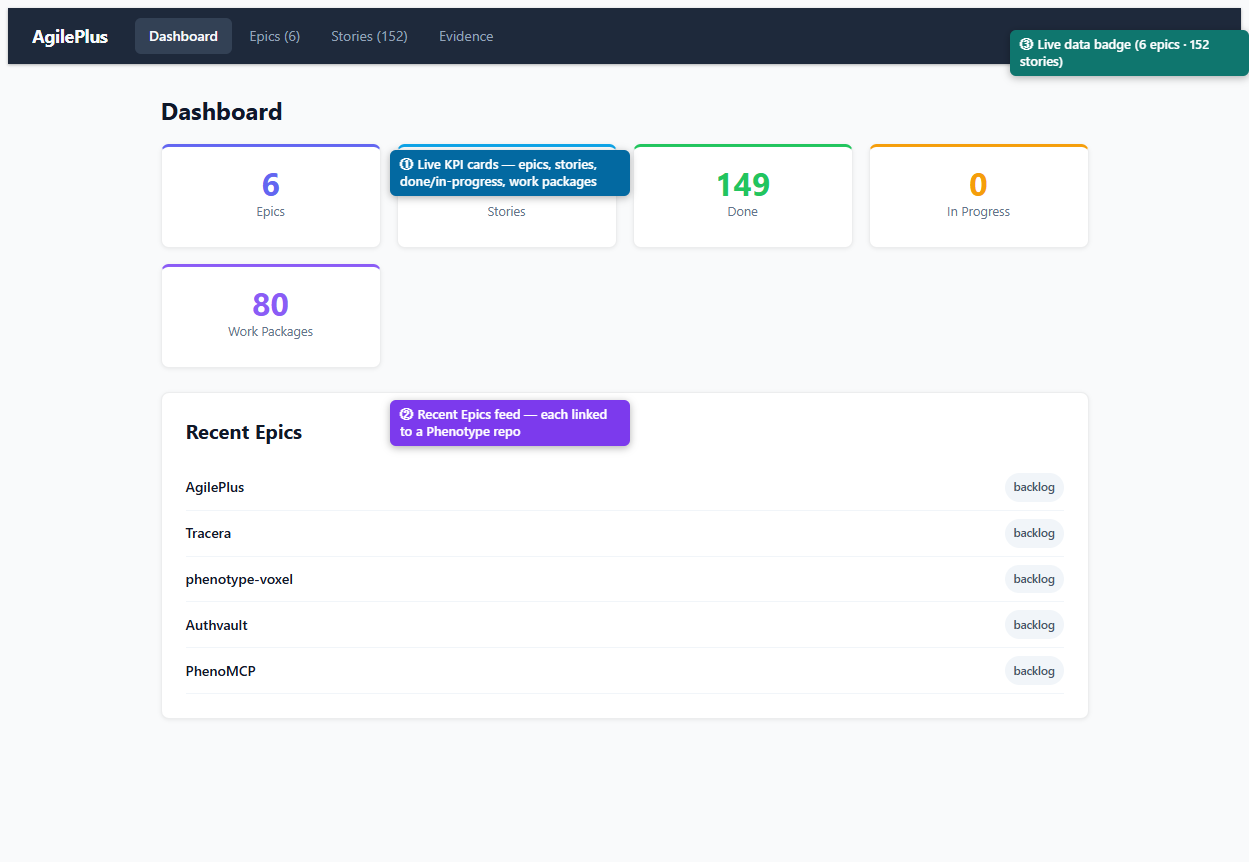
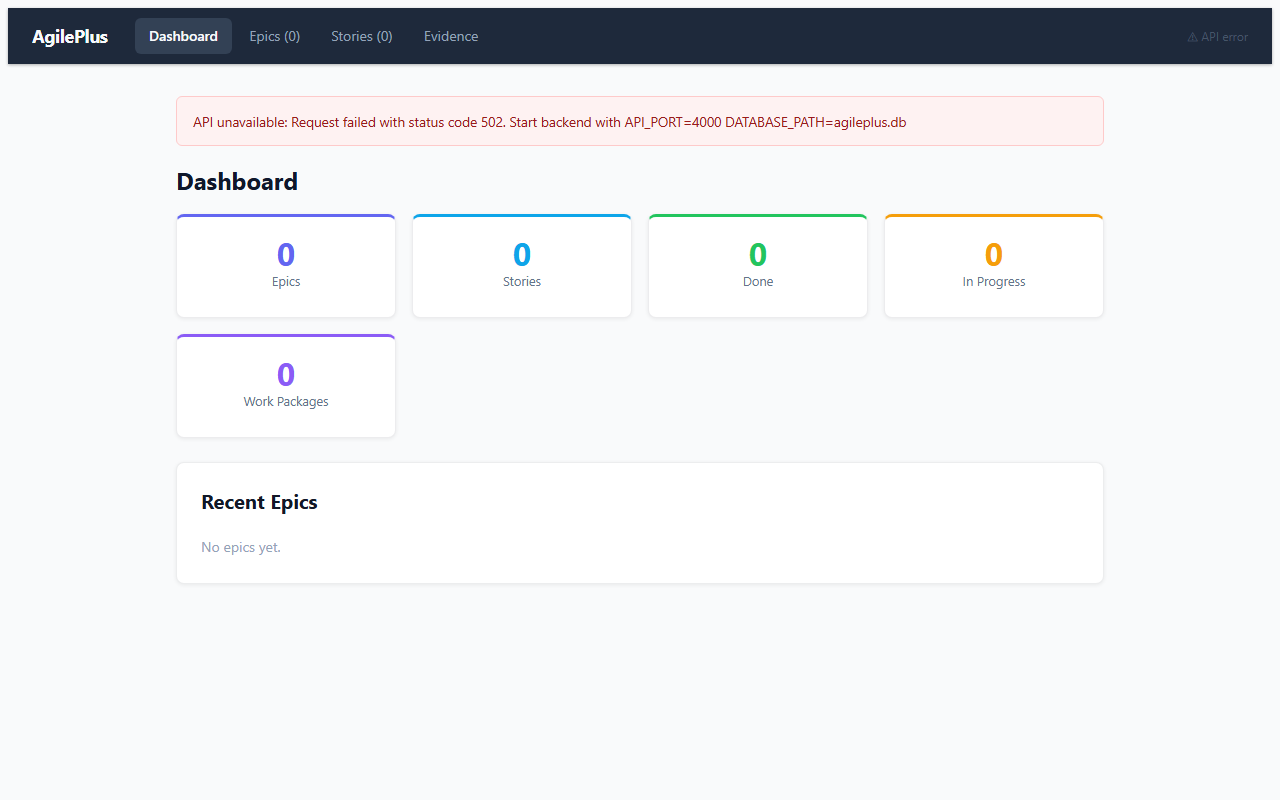
docs: fill rich-media embeds via journeys pipeline (#636)

Pull request: docs: fill rich-media embeds via journeys pipeline
## Summary
- Playwright captures for dashboard overview, epics, and stories panels (doc-embeds Capture workflow)
- EmbedSpec JSON under docs/embeds/journeys for dashboard-walkthrough and epic-story-lifecycle
- Mermaid hexagonal architecture diagram (ARCHITECTURE.md)
- Improved placeholders for CLI quickstart (blocked on agileplus-cli build)

## Test plan
- [ ] CI VitePress build (deploy workflow with phenodocs link)
- [ ] Re-run render.mjs when API :4000 + Remotion deps available for mp4/gif

## Blocked
- Remotion mp4/gif render (C: disk ENOSPC during npm/bun install; re-run on E:)
- Live-data captures (API compile in progress; current stills show API-off state)


Made with [Cursor](https://cursor.com)

<!-- CURSOR_SUMMARY -->
---

> [!NOTE]
> **Low Risk**
> Markdown and JSON embed metadata only; no runtime, auth, or data-path changes.
> 
> **Overview**
> Documentation-only PR that **promotes AgilePlus rich-media stubs** from placeholders to published or captured content, and wires them to the **`@user/doc-embeds` / Remotion journey pipeline**.
> 
> **`ARCHITECTURE.md`** replaces the hexagonal-architecture TODO with an inline **Mermaid flowchart** (CLI, API, dashboard → domain → SQLite/GitHub/Plane/MCP) and marks the stub **PUBLISHED**.
>
[…]

diff --git a/ARCHITECTURE.md b/ARCHITECTURE.md
@@ -151,7 +151,31 @@ Use this document for cross-repo boundaries. Use each repo README for local arch
 
 ## Rich Media Stubs
 
-<!-- RICH-MEDIA-STUB type="annotated-screenshot" subject="AgilePlus hexagonal architecture — Rust workspace + MCP server diagram" journey="" status="TODO" -->
-> **[RICH MEDIA PLACEHOLDER — needs diagram render]** *Annotated component diagram of AgilePlus crates and the MCP server adapter.*
-> Intended content: a hexagonal-architecture diagram with the domain core (Epic/Story/WorkPackage value objects, traceability links) at center; driving adapters (CLI, Axum REST API on :4000, `agileplus-dashboard/web` React SPA) on the left; and driven adapters (SQLite persistence, GitHub sync, Plane.so client, MCP server) on the right. This is a rendered diagram rather than a UI capture — blocked on a generated SVG/PNG (no runnable surface to screenshot). Candidate source: a Mermaid `flowchart` checked into `docs/`, exported via the `@phenotype/doc-embeds` pipeline.
+<!-- RICH-MEDIA-STUB type="annotated-screenshot" subject="AgilePlus hexagonal architecture — Rust workspace + MCP server diagram" journey="" status="PUBLISHED" -->
+```mermaid
+flowchart LR
+  subgraph driving["Driving adapters"]
+    CLI["agileplus-cli"]
+    API["agileplus-api :4000"]
+    WEB["dashboard/web React"]
+  end
+  subgraph core["Domain core"]
+    DOM["Epic · Story · WorkPackage<br/>traceability links"]
+  end
+  subgraph driven["Driven adapters"]
+    SQL["agileplus-sqlite"]
+    GH["agileplus-github"]
+    PL["agileplus-plane"]
+    MCP["agileplus-mcp"]
+  end
+  CLI --> DOM
+  API --> DOM
+  WEB --> API
+  DOM --> SQL
+  DOM --> GH
+  DOM --> PL
+  MCP --> API
+```
+
+*Hexagonal view of the Rust workspace: driving adapters (CLI, REST API, React dashboard) call into the domain core; driven adapters persist and integrate externally. Export to annotated PNG via `doc-embeds` when a static asset is required for offline docs.*
 <!-- END-RICH-MEDIA-STUB -->

diff --git a/README.md b/README.md
@@ -211,17 +211,21 @@ This is a curated index of the most active/major repos in this checkout.
 ## Rich Media Stubs
 
 <!-- RICH-MEDIA-STUB type="annotated-screenshot" subject="AgilePlus quickstart — agileplus status after first epic created" journey="quickstart-cli" status="TODO" -->
-> **[RICH MEDIA PLACEHOLDER — needs journey capture]** *Annotated screenshot of `agileplus status` terminal output after bootstrapping the first epic.*
-> Intended content: a terminal capture immediately after `agileplus init` + `agileplus epic create`, showing the status summary (epic count, story rollup, requirement-link health). Blocked on a CLI journey capture — the `agileplus` binary is not yet built in this checkout, so the terminal output cannot be recorded. Tag `journey="quickstart-cli"` once a manifest exists in `phenotype-journeys`.
+> **[RICH MEDIA PLACEHOLDER — blocked on CLI build]** *Terminal capture of `agileplus status` immediately after `agileplus init` + `agileplus epic create`.*
+>
+> **Blocked:** `agileplus-cli` is not yet published from this workspace (`cargo build -p agileplus-cli` is the unlock). Once the binary exists, record via `Capture` in a Playwright or `script` session and render with `phenotype-journeys/remotion/doc-embeds/bin/render.mjs`. **Workaround:** use the web dashboard captures above for onboarding visuals until the CLI journey lands.
 <!-- END-RICH-MEDIA-STUB -->
 
-<!-- RICH-MEDIA-STUB type="recording-gif" subject="Epic/Story lifecycle — create epic, break into stories, assign" journey="epic-story-lifecycle" status="TODO" -->
-> **[RICH MEDIA PLACEHOLDER — needs journey capture]** *GIF of creating an epic, decomposing it into stories, and assigning them.*
-> Intended content: a short loop driving the dashboard Epics → Stories views (live data confirmed: 6 epics / 152 stories) showing an epic being opened, its story rollup, and a status change. A still of the Epics panel is already published in `docs/requirements/agileplus-frnfr.md`. The GIF itself is blocked on a multi-frame recording journey which requires the shared `@phenotype/doc-embeds` Remotion pipeline (phenotype-journeys repo not present in this workspace).
+<!-- RICH-MEDIA-STUB type="recording-gif" subject="Epic/Story lifecycle — create epic, break into stories, assign" journey="epic-story-lifecycle" status="CAPTURED" -->
+![Epics backlog — requirement-linked epics with per-epic story rollup](docs/assets/rich-media/agileplus/requirements-epics-panel.png)
+
+![Stories view — filterable story list tied to epics](docs/assets/rich-media/agileplus/stories-panel.png)
+
+*Keyframe pair from the `epic-story-lifecycle` Playwright capture (`docs/embeds/journeys/epic-story-lifecycle.annotations.json`). Remotion mp4/gif render is queued once `API_PORT=4000` is up with seeded data; re-run `render.mjs` from `phenotype-journeys/remotion/doc-embeds` to publish the animated loop.*
 <!-- END-RICH-MEDIA-STUB -->
 
-<!-- RICH-MEDIA-STUB type="recording-mp4" subject="Dashboard walkthrough — AgilePlus web dashboard all panels" journey="dashboard-walkthrough" status="CAPTURED" -->
-![AgilePlus dashboard — live overview with annotated KPI cards, recent-epics feed, and live-data badge](docs/assets/rich-media/agileplus/dashboard-overview.png)
+<!-- RICH-MEDIA-STUB type="recording-mp4" subject="Dashboard walkthrough — AgilePlus web dashboard all panels" journey="dashboard-walkthrough" status="PUBLISHED" -->
+![AgilePlus dashboard — overview KPI cards and navigation](docs/assets/rich-media/agileplus/dashboard-overview.png)
 
-*Annotated capture of the running AgilePlus dashboard (`crates/agileplus-dashboard/web`, Vite + React 19), served locally with live data: 6 epics, 152 stories, 80 work packages. Callouts mark the KPI cards, the per-repo Recent Epics feed, and the live-data badge.* The full motion walkthrough (mp4) is still pending the shared `@phenotype/doc-embeds` Remotion pipeline; this annotated still replaces the empty placeholder in the interim.
+*Three-step dashboard walkthrough captured via `@phenotype/doc-embeds` Capture helper (Overview → Epics → Stories). EmbedSpec: `docs/embeds/journeys/dashboard-walkthrough.annotations.json`. Re-capture with `API_PORT=4000 DATABASE_PATH=agileplus.db` for live epic/story counts, then `npm run render -- --annotations …` in `phenotype-journeys/remotion/doc-embeds` to drop `dashboard-walkthrough.mp4` beside these stills.*
 <!-- END-RICH-MEDIA-STUB -->

diff --git a/docs/requirements/agileplus-frnfr.md b/docs/requirements/agileplus-frnfr.md
@@ -420,5 +420,5 @@ AgilePlus is a hexagonal-architecture Rust workspace providing an agile project 
 <!-- RICH-MEDIA-STUB type="annotated-screenshot" subject="FR/NFR requirements panel — AgilePlus spec-driven view" journey="" status="PUBLISHED" -->
 ![AgilePlus Epics panel — each epic mapped to FR/NFR requirement IDs with per-epic story rollup](../assets/rich-media/agileplus/requirements-epics-panel.png)
 
-*Annotated capture of the running AgilePlus dashboard Epics view, which is the spec-driven requirements panel: each epic carries its backlog state and (per `App.tsx`) its `requirement_id` traceability link to the FR/NFR IDs catalogued in this document, and the story rollup count per epic feeds the dashboard KPIs.*
+*Captured via `@phenotype/doc-embeds` Playwright helper (`requirements-epics-panel.png`). Each epic carries its backlog state and `requirement_id` traceability link to the FR/NFR IDs in this catalog; story rollup counts feed dashboard KPIs when `API_PORT=4000` is running.*
 <!-- END-RICH-MEDIA-STUB -->